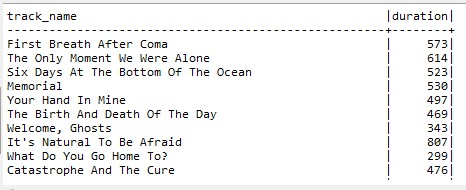
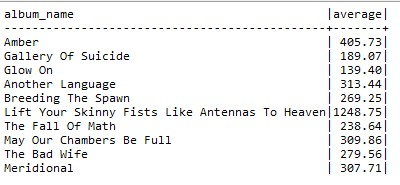
update music base project 4

Changed region(s): [[0.0, 0.0541, 0.99, 0.9459], [0.0, 0.0, 1.0, 0.027], [0.81, 0.0541, 0.99, 0.1081]]

diff --git a/README.md b/README.md
@@ -1,248 +1,144 @@
 ## Музыкальная база данных
 
-### 1. Структура базы данных.
-
 ![](/pics/music_base_net.jpg)
   
-__CREATE__ запросы для создания таблиц:
-
-~~~
-CREATE TABLE genres(
-	id SERIAL PRIMARY KEY,
-	genre_name VARCHAR(100) NOT NULL UNIQUE
-);
-
-CREATE TABLE artists(
-	id SERIAL PRIMARY KEY,
-	artist_name VARCHAR(100) NOT NULL
-);
-
-CREATE TABLE albums (
-	id SERIAL PRIMARY KEY,
-	album_name VARCHAR(100) NOT NULL,
-	year INTEGER NOT NULL,
-);
-
-CREATE TABLE tracks(
-	id SERIAL PRIMARY KEY,
-	track_position INTEGER NOT NULL,
-	track_name VARCHAR(100) NOT NULL,
-	duration INTEGER NOT NULL,
-	album_id INTEGER NOT NULL REFERENCES albums(id)
-);
-
-CREATE TABLE artist_genre(
-	artist_id INTEGER REFERENCES artists(id),
-	genre_id INTEGER REFERENCES genres(id),
-	CONSTRAINT art_gen PRIMARY KEY (artist_id, genre_id)
-);
-
-CREATE TABLE artist_album(
-	artist_id INTEGER REFERENCES artists(id),
-	album_id INTEGER REFERENCES albums(id),
-	CONSTRAINT art_alb PRIMARY KEY (artist_id, album_id)
-);
-
-CREATE TABLE compilations(
-	id SERIAL PRIMARY KEY,
-	compilation_name VARCHAR(100) NOT NULL,
-	year INTEGER NOT NULL,
-);
-
-CREATE TABLE compilation_track(
-	compilation_id INTEGER REFERENCES compilations(id),
-	track_id INTEGER REFERENCES tracks(id),
-	CONSTRAINT comp_trck PRIMARY KEY (compilation_id, track_id)
-);
-~~~
-
-Все запросы находятся в файле *create_md_tables.sql*
+### 1. __CREATE__ запросы для создания таблиц остались без изменений и находятся в файле *create_md_tables.sql*
   
-### 2. __INSERT__ запросы на добавление записей.
-  
-Добавление информации об альбоме на примере *Korn - 1999 - Issues*:
-  
-Добавим название исполнителя:
-
-~~~
-INSERT INTO artists (artist_name)
-VALUES ('Korn');
-~~~
-
-С помощью `SELECT * FROM artists WHERE artist_name = 'Korn';` можем узнать __id__ необходимого исполнителя.
-Но можно сделать другой запрос, чтоб узнать __id__ только что добавленной записи:
-
-~~~
-SELECT * FROM artists
-ORDER BY id DESC
-LIMIT (1);
-~~~
-
-Добавим жанр:
-
-~~~
-INSERT INTO genres (genre_name)
-VALUES ('Nu Metal');
-~~~
-
-__id__ группы *Korn* - 49, __id__ *Nu Metal* - 27. 
-Установим связь:
-
-~~~
-INSERT INTO artist_genre VALUES (49, 27);
-~~~
-
-Теперь добавим альбом:
-
-~~~
-INSERT INTO albums (album_name, year)
-VALUES ('Issues', 1999);
-~~~
-
-И также добавим связь альбома и исполнителя, где __id__ только что добавленного альбома - 25:
-
-~~~
-INSERT INTO artist_album VALUES (49, 25);
-~~~
-
-Осталось добавить композиции:
-
-~~~
-INSERT INTO tracks (track_name, duration, album_id, track_position)
-VALUES ('Dead', 72, 25, 1);
-
-INSERT INTO tracks (track_name, duration, album_id, track_position)
-VALUES ('Falling Away From Me', 270, 25, 2);
-~~~
-
-Можно сразу добавить несколько записей. Например:
-
-~~~
-INSERT INTO tracks (track_name, duration, album_id, track_position)
-VALUES ('Trash', 206, 25, 3), ('4 U', 102, 25, 4), ('Beg for Me', 233, 25, 5);
-~~~
-
-Чтобы удостовериться, что все данные и связи внесены верно, можно сделать такой __SELECT__ запрос:
-
-~~~
-SELECT artist_name, year, album_name, track_position, track_name, duration
-FROM tracks t
-JOIN albums r ON t.album_id = r.id
-JOIN artist_album aa ON r.id = aa.album_id 
-JOIN artists ar ON aa.artist_id = ar.id
-WHERE t.album_id = 25
-ORDER BY track_position;
-~~~
-
-Результатом будет:
-
-![](/pics/korn_issues_result.jpg)
-  
-Но такой способ очень медленный.
-С помощью API [Discogs](https://www.discogs.com/) я смог получить данные о любом альбоме и сохранить их в *json-файл*.
-А далее написал скрипт для чтения этого файла и заливки всех данных в базу.
-Код находится в файле *add_album_to_database.py*
-  
-Правда, по ходу работы с *Discogs* обнаружилось несколько нюансов из-за которых не каждый альбом удалось проиндексировать и сохранить.
-Но для текущей задачи с запросами этого хватит.
-  
-Создадим сборник из уже имеющихся в базе треков.
-Например, мы хотим создать жанровый сборник из хитов в стиле *Death Metal*.
-Создадим сам сборник:
-
-~~~
-INSERT INTO compilations (compilation_name, year)
-VALUES ('Master of Brutality: Classic of Death Metal', 1999);
-~~~
-
-И добавим записи в связующую таблицу *compilation_track*, где 4 это __id__ сборника:
-
-~~~
-INSERT INTO compilation_track
-VALUES (4, 1045), (4, 1056), (4, 1586), (4, 1605), 
-(4, 1658), (4, 1654), (4, 1708), (4, 1736), 
-(4, 1777), (4, 1788), (4, 1833), (4, 1832),
-(4, 1857), (4, 1876), (4, 1897), (4, 1914);
-~~~
-
-Выведем результат с помощью __SELECT__ запроса:
-
-~~~
-SELECT artist_name, track_name, duration
-FROM tracks t 
-JOIN compilation_track ct ON t.id = ct.track_id
-JOIN albums ab ON t.album_id = ab.id
-JOIN artist_album aa ON ab.id = aa.album_id 
-JOIN artists ar ON aa.artist_id = ar.id 
-WHERE ct.compilation_id = 4;
-~~~
-
-![](/pics/select_comp_result.jpg)
-
-Все запросы в файле *insert_md_data.sql*
+### 2. __INSERT__ запросы на добавление записей так же не менялись и находятся в файле *insert_md_data.sql*
   
 ### 3. __SELECT__ запросы для выборки данных:
 
-> Название и год выхода альбомов, вышедших в 2018 году:
+В некоторых запросах было много результатов, поэтому я выводил только первые 10.
+
+> Количество исполнителей в каждом жанре.
 
 ~~~
-SELECT album_name, year 
-FROM albums
-WHERE year = 2018;
+SELECT genre_name, COUNT(genre_id)
+FROM artist_genre ag 
+JOIN genres g ON ag.genre_id = g.id
+GROUP BY genre_name
+ORDER BY COUNT DESC
+LIMIT (10);
 ~~~
+
+Я также добавил сортировку по количеству исполнителей в каждом жанре.
 
 ![](/pics/select_result_1.jpg)
 
-> Название и продолжительность самого длительного трека:
+> Количество треков, вошедших в альбомы 2019-2020 годов.
 
 ~~~
-SELECT track_name, duration
-FROM tracks
-WHERE duration = (SELECT MAX(duration) FROM tracks);
+SELECT year, COUNT(*) AS tracks
+FROM tracks t
+JOIN albums a ON t.album_id = a.id
+WHERE year BETWEEN 2019 AND 2020
+GROUP BY year;
 ~~~
 
 ![](/pics/select_result_2.jpg)
 
-> Название треков, продолжительность которых не менее 3,5 минуты:
+> Средняя продолжительность треков по каждому альбому.
 
 ~~~
-SELECT track_name, duration
-FROM tracks
-WHERE duration > (3 * 60) + 30;
+SELECT album_name, ROUND((AVG(duration)), 2) AS average
+FROM tracks t
+JOIN albums a ON t.album_id = a.id 
+GROUP BY album_name
+LIMIT (10);
 ~~~
 
 ![](/pics/select_result_3.jpg)
 
-*Результатом было более 200 записей, на скриншоте первые 10.*
-
-> Названия сборников, вышедших в период с 2018 по 2020 год включительно:
+> Все исполнители, которые не выпустили альбомы в 2020 году.
 
 ~~~
-SELECT compilation_name, year
-FROM compilations
-WHERE year BETWEEN 2018 AND 2020;
+SELECT DISTINCT artist_name
+FROM albums ab
+JOIN artist_album aa ON ab.id = aa.album_id 
+JOIN artists ar ON aa.artist_id = ar.id  
+WHERE year != 2020
+LIMIT (10);
 ~~~
 
 ![](/pics/select_result_4.jpg)
 
-> Исполнители, чье имя состоит из 1 слова:
+> Названия сборников, в которых присутствует конкретный исполнитель.
+
+Например, сборники, где есть композиции группы *Mogwai*.
 
 ~~~
-SELECT artist_name
-FROM artists
-WHERE artist_name NOT LIKE '% %';
+SELECT compilation_name 
+FROM compilations c
+JOIN compilation_track ct ON c.id = ct.compilation_id 
+JOIN tracks t ON ct.track_id = t.id 
+JOIN albums ab ON t.album_id = ab.id 
+JOIN artist_album aa ON ab.id = aa.album_id 
+JOIN artists ar ON aa.artist_id = ar.id 
+WHERE ar.artist_name = 'Mogwai';
 ~~~
 
 ![](/pics/select_result_5.jpg)
 
-> Название треков, которые содержат слово "мой"/"my":
+> Название альбомов, в которых присутствуют исполнители более 1 жанра.
 
 ~~~
-SELECT track_name
-FROM tracks
-WHERE track_name ILIKE '%my%';
+SELECT album_name 
+FROM artist_album aa
+JOIN albums a ON aa.album_id = a.id 
+GROUP BY album_name 
+HAVING COUNT(aa.album_id) > 1;
 ~~~
 
 ![](/pics/select_result_6.jpg)
+
+> Наименование треков, которые не входят в сборники.
+
+~~~
+SELECT track_name 
+FROM tracks t
+LEFT JOIN compilation_track ct ON t.id = ct.track_id
+WHERE ct.track_id IS NULL
+LIMIT (10);
+~~~
+
+![](/pics/select_result_7.jpg)
+
+> Исполнители, написавшие самый короткий по продолжительности трек.
+
+~~~
+SELECT artist_name
+FROM artists ar
+JOIN artist_album aa ON ar.id = aa.artist_id 
+JOIN albums ab ON aa.album_id = ab.id
+JOIN tracks t ON ab.id = t.album_id
+WHERE duration = (SELECT MIN(duration) FROM tracks t);
+~~~
+
+![](/pics/select_result_8.jpg)
+
+> Название альбомов, содержащих наименьшее количество треков.
+
+Этот запрос действительно вызвал сложности, в отличие от остальных.
+Не уверен в правильности его реализации, но результат выводится верный.
+
+~~~
+SELECT album_name, MIN(nt)
+FROM albums a
+JOIN (
+	SELECT album_id, COUNT(album_id) nt
+	FROM tracks 
+	GROUP BY album_id) AS t1 ON a.id = t1.album_id
+GROUP BY album_name
+HAVING MIN(nt) = (
+	SELECT MIN(COUNT)
+	FROM (
+		SELECT album_id, COUNT(album_id)
+		FROM tracks 
+		GROUP BY album_id) AS t1);
+~~~
+
+В моей базе действительно есть один альбом, состоящий всего из 3х треков.
+
+![](/pics/select_result_9.jpg)
 
 Все запросы в файле *select_md.sql*
